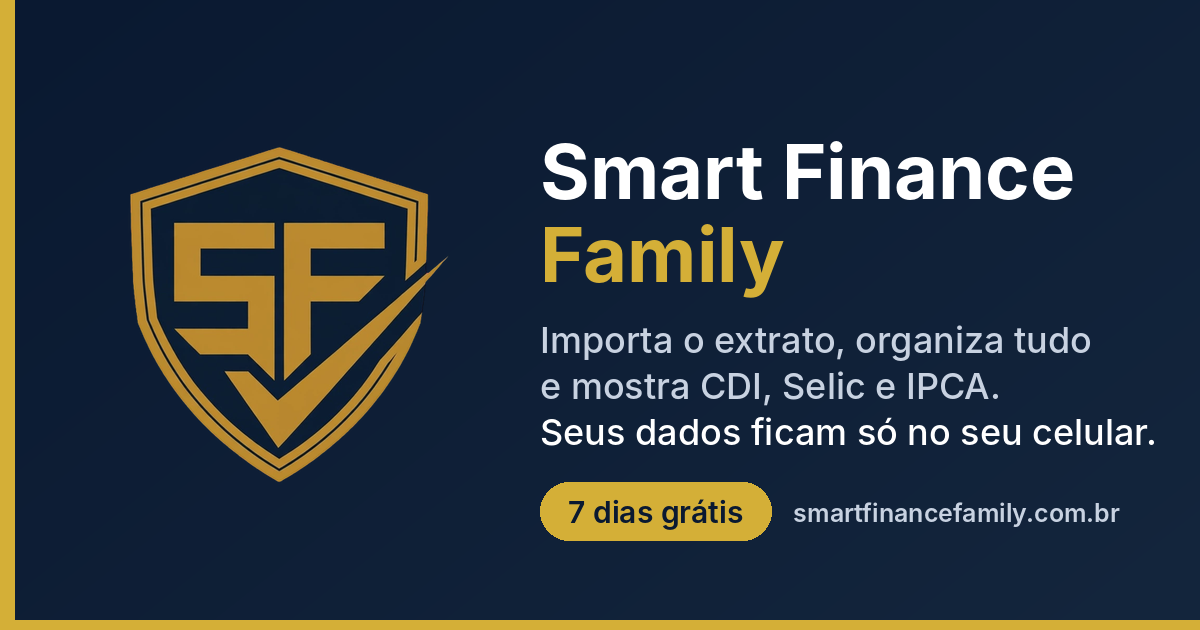
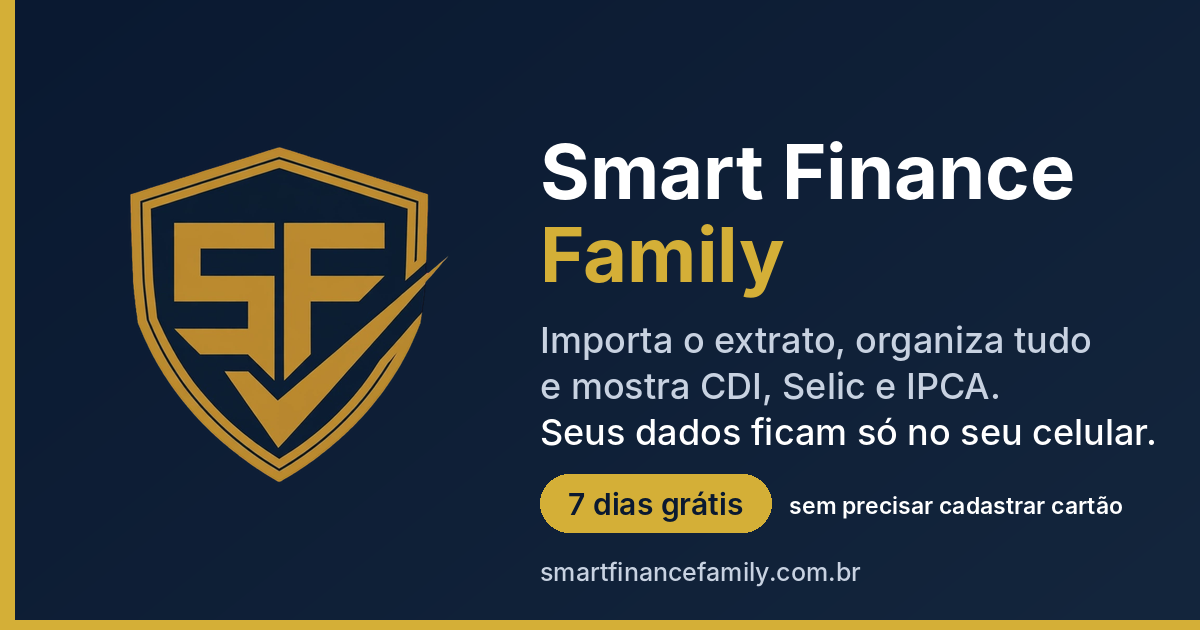
Preview do link: destacar 7 dias grátis sem cadastrar cartão
Claude-Session: https://claude.ai/code/session_016cQjYaaid4sj32K2zmv4uM

Changed region(s): [[0.4317, 0.754, 0.9558, 0.9349], [0.4317, 0.8143, 0.4625, 0.8444]]

diff --git a/index.html b/index.html
@@ -11,7 +11,7 @@
 <meta property="og:locale" content="pt_BR">
 <meta property="og:url" content="https://smartfinancefamily.com.br/">
 <meta property="og:title" content="Smart Finance Family — finanças da família, 100% no seu celular">
-<meta property="og:description" content="Importa o extrato, organiza tudo e mostra CDI, Selic e IPCA. Seus dados ficam criptografados só no seu aparelho. Teste grátis por 7 dias.">
+<meta property="og:description" content="Importa o extrato, organiza tudo e mostra CDI, Selic e IPCA. Seus dados ficam criptografados só no seu aparelho. 7 dias grátis, sem precisar cadastrar cartão.">
 <meta property="og:image" content="https://smartfinancefamily.com.br/og-image.png">
 <meta property="og:image:type" content="image/png">
 <meta property="og:image:width" content="1200">
@@ -19,7 +19,7 @@
 <meta property="og:image:alt" content="Smart Finance Family — escudo SF dourado sobre fundo azul marinho">
 <meta name="twitter:card" content="summary_large_image">
 <meta name="twitter:title" content="Smart Finance Family — finanças da família, 100% no seu celular">
-<meta name="twitter:description" content="Importa o extrato, organiza tudo e mostra CDI, Selic e IPCA. Teste grátis por 7 dias.">
+<meta name="twitter:description" content="Importa o extrato, organiza tudo e mostra CDI, Selic e IPCA. 7 dias grátis, sem cartão.">
 <meta name="twitter:image" content="https://smartfinancefamily.com.br/og-image.png">
 <meta name="apple-mobile-web-app-capable" content="yes">
 <meta name="apple-mobile-web-app-status-bar-style" content="black-translucent">
